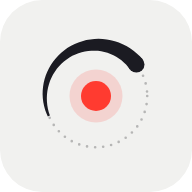
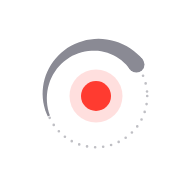
App-icoon transparant buiten de orbit-elementen, render-script in de repo
Claude-Session: https://claude.ai/code/session_01DKza2nncPbWGfFsHg8Vg2p

Changed region(s): [[0.2188, 0.1875, 0.75, 0.625]]

diff --git a/icons/make_icons.py b/icons/make_icons.py
@@ -2,6 +2,8 @@ import math, os
 OUT = os.path.join(os.path.dirname(os.path.abspath(__file__)), '..')
 PAPER, INK, RED = '#F1F1EF', '#1B1B22', '#FF3B30'
 DARK_BG, DARK_INK = '#0F0F12', '#ECECF1'
+# App-icoon is transparant (liquid glass): middengrijs blijft leesbaar op lichte én donkere achtergronden
+GLASS_INK = '#8A8A94'
 
 def comet(cx, cy, R, head, head_deg, span_deg, steps=40):
     """Taps bolletje: polygoon langs de baan + ronde kop (draaizin met de klok mee, kop vooraan)."""
@@ -18,7 +20,7 @@ def comet(cx, cy, R, head, head_deg, span_deg, steps=40):
     hx, hy = cx + math.cos(a) * R, cy + math.sin(a) * R
     return d, (hx, hy)
 
-def mark(scale=1.0, ring=True, ink=INK, red=RED, ring_ink=None, bold=False):
+def mark(scale=1.0, ring=True, ink=INK, red=RED, ring_ink=None, bold=False, ring_opacity=.28):
     """Merkteken in een 100x100-vak, geschaald rond het midden."""
     c = 50
     R = 29 * scale
@@ -26,7 +28,7 @@ def mark(scale=1.0, ring=True, ink=INK, red=RED, ring_ink=None, bold=False):
     d, (hx, hy) = comet(c, c, R, head, -38, 165)
     parts = []
     if ring:
-        parts.append(f'<circle cx="{c}" cy="{c}" r="{R:.2f}" fill="none" stroke="{ring_ink or ink}" stroke-opacity=".28" stroke-width="{1.5*scale:.2f}" stroke-linecap="round" stroke-dasharray="0 {4.6*scale:.2f}"/>')
+        parts.append(f'<circle cx="{c}" cy="{c}" r="{R:.2f}" fill="none" stroke="{ring_ink or ink}" stroke-opacity="{ring_opacity}" stroke-width="{1.5*scale:.2f}" stroke-linecap="round" stroke-dasharray="0 {4.6*scale:.2f}"/>')
     parts.append(f'<circle cx="{c}" cy="{c}" r="{15*scale:.2f}" fill="{red}" fill-opacity=".16"/>')
     parts.append(f'<circle cx="{c}" cy="{c}" r="{(9.5 if bold else 8.5)*scale:.2f}" fill="{red}"/>')
     parts.append(f'<path d="{d}" fill="{ink}"/>')
@@ -38,10 +40,9 @@ def svg(body, bg=None, rx=0):
     return f'<svg xmlns="http://www.w3.org/2000/svg" viewBox="0 0 100 100">\n  {rect}{body}\n</svg>\n'
 
 files = {
-    # app-iconen: vol vlak (iOS rondt zelf af en legt er liquid glass over)
-    'icons/icon-full.svg': svg(mark(1.0), PAPER),
-    # Android 'any': eigen afgeronde vorm met transparante hoeken
-    'icons/icon-any.svg': svg(mark(0.92), PAPER, rx=22),
+    # app-iconen: volledig transparant buiten de orbit-elementen (iOS liquid glass, Android 'any')
+    'icons/icon-full.svg': svg(mark(1.0, ink=GLASS_INK, ring_opacity=.55)),
+    'icons/icon-any.svg': svg(mark(0.92, ink=GLASS_INK, ring_opacity=.55)),
     # Android 'maskable': inhoud binnen de veilige cirkel (80 %)
     'icons/icon-maskable.svg': svg(mark(0.72), PAPER),
     # Material You thema-icoon: één kleur op transparant

diff --git a/icons/README.md b/icons/README.md
@@ -1,12 +1,17 @@
 # Iconen
 
-Bron: `make_icons.py` schrijft de SVG's (`icon-*.svg` en `../favicon.svg`). De PNG's en `../favicon.ico` zijn daaruit gerenderd (Chromium voor de PNG's, Pillow voor de ICO).
+Bron: `make_icons.py` schrijft de SVG's (`icon-*.svg` en `../favicon.svg`). `render_icons.mjs` rendert de PNG's met Chromium (Playwright); `../favicon.ico` komt uit de favicon-PNG's via Pillow.
+
+```
+python3 icons/make_icons.py
+node icons/render_icons.mjs   # of PLAYWRIGHT=/pad/naar/playwright/index.mjs node icons/render_icons.mjs
+```
 
 | Bestand | Gebruik |
 |---|---|
 | `../favicon.svg` | Chrome, Firefox, Edge; past zich aan licht en donker aan |
 | `../favicon.ico` | 16, 32 en 48 px voor oudere browsers en Windows |
-| `apple-touch-icon.png` | iOS-thuisscherm, 180 px, vol vlak zonder transparantie (iOS rondt af en legt liquid glass erover) |
-| `icon-192.png`, `icon-512.png` | Android en installeerbare app (`any`), eigen afgeronde vorm |
+| `apple-touch-icon.png` | iOS-thuisscherm, 180 px, transparant buiten de orbit-elementen (liquid glass). Let op: iOS vulde transparantie bij webiconen vroeger met zwart |
+| `icon-192.png`, `icon-512.png` | Android en installeerbare app (`any`), transparant buiten de orbit-elementen |
 | `icon-maskable-512.png` | Android adaptieve iconen (`maskable`), inhoud binnen de veilige cirkel van 80 % |
 | `icon-monochrome-512.png` | Material You thema-iconen (`monochrome`), wit op transparant |

diff --git a/CLAUDE.md b/CLAUDE.md
@@ -35,7 +35,8 @@ Richting gekozen door Victor: posterstijl (lichte poster-reeks met wazige kleurb
 
 ## Icoon
 
-- Merkteken: rode kern met één effen lichtgolf (het baken) en één taps bolletje in grafiet dat er met de klok mee omheen draait; op het grote icoon ook de gestippelde ring. Papier #F1F1EF, geen verloop of glans: iOS (liquid glass) en Android (maskers, Material You) voegen hun eigen effect toe.
+- Merkteken: rode kern met één effen lichtgolf (het baken) en één taps bolletje dat er met de klok mee omheen draait; op het grote icoon ook de gestippelde ring. Geen verloop of glans: iOS (liquid glass) en Android (maskers, Material You) voegen hun eigen effect toe.
+- App-icoon (`apple-touch-icon`, Android `any`) is volledig transparant buiten de orbit-elementen (Victor: liquid glass). Bolletje en ring zijn daarom middengrijs #8A8A94, leesbaar op lichte én donkere achtergronden. Alleen `maskable` heeft papier #F1F1EF (Android eist een vol vlak). Onzeker: iOS vulde transparantie bij webiconen vroeger met zwart; blijkt dat zo, terug naar een vol vlak.
 - Favicon is vetter en zonder stippelring (leesbaar op 16 px) en volgt licht/donker via een media query in de SVG.
 
 ## Bestanden
